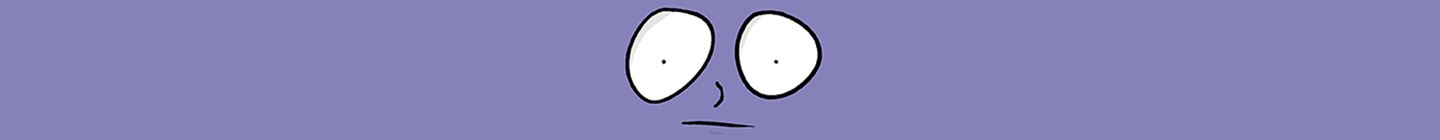
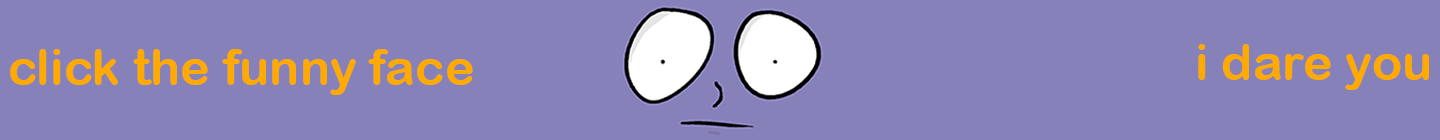
click the funny face

diff --git a/aboutMe.html b/aboutMe.html
@@ -76,7 +76,8 @@
         </div>
         <div class="reset"></div>
         <div id="linktree">
-            <img src="img/wideBLUE.png" alt="funny looking dude">
+            <a target="_blank" href="https://en.wikipedia.org/wiki/HTTP_404"><img src="img/wideBLUE.png"
+                    alt="funny looking dude"></a>
         </div>
 
     </div>

diff --git a/style.css b/style.css
@@ -96,6 +96,10 @@ body {
     margin: 30px;
 }
 
+#linktree {
+    padding-top: 128px;
+}
+
 /*Classes*/
 
 .reset {
